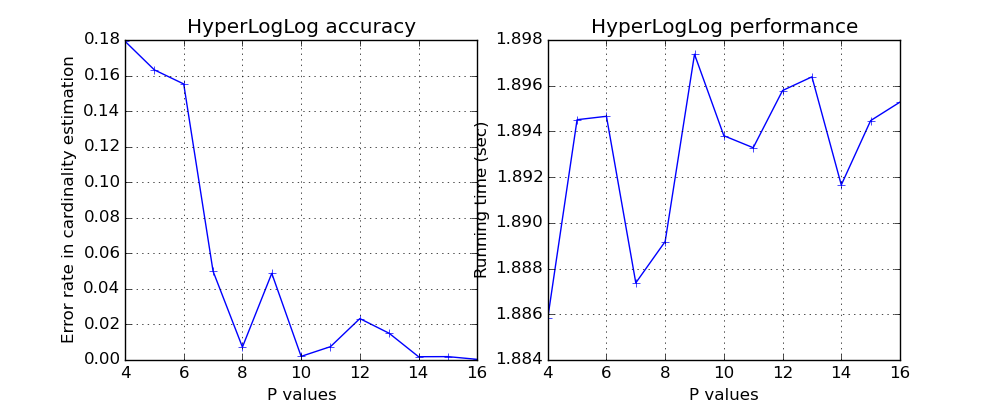
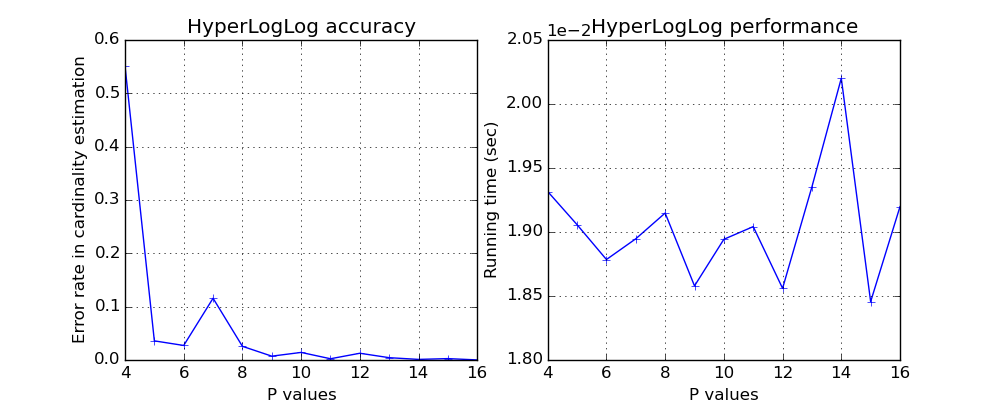
update hyperloglog plots using same card as minhash

diff --git a/benchmark/hyperloglog_benchmark.py b/benchmark/hyperloglog_benchmark.py
@@ -38,11 +38,11 @@ ps = range(4, 17)
 output = "hyperloglog_benchmark.png"
 
 logging.info("> Running performance tests")
-card = 500000
+card = 5000
 run_times = [run_perf(card, p) for p in ps]
 
 logging.info("> Running accuracy tests")
-size = 500000
+size = 5000
 errs = [run_acc(size, 1, p) for p in ps]
 
 logging.info("> Plotting result")
